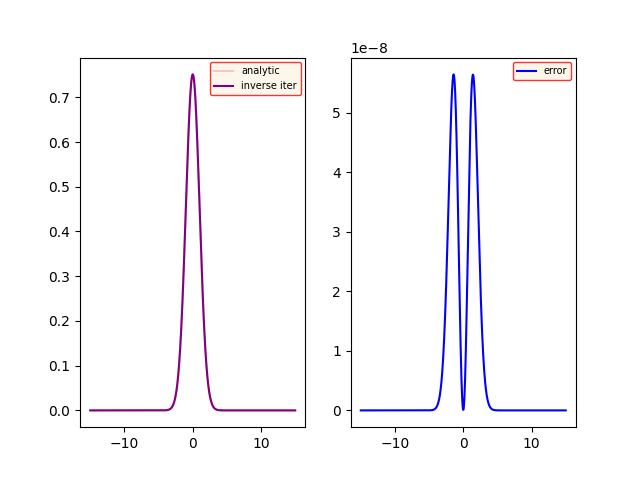
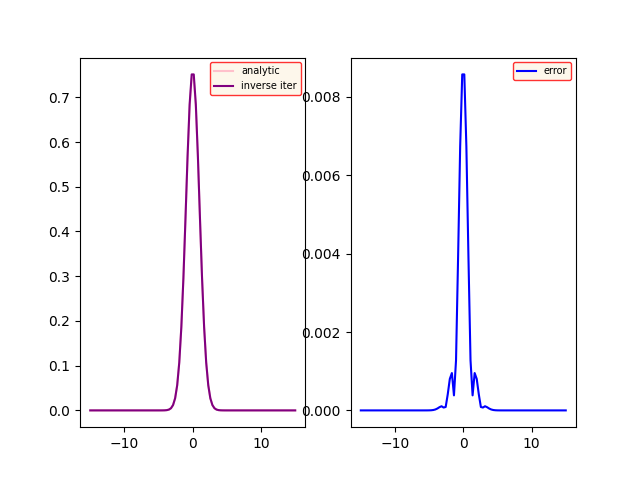
commit changes

diff --git a/task13/task13.py b/task13/task13.py
@@ -1,7 +1,11 @@
 import numpy as np
 import matplotlib.pyplot as plt
+from matplotlib import cm
 
 from typing import NamedTuple
+
+
+# нужно изменить на треугольник
 
 
 class Matrix(NamedTuple):
@@ -12,7 +16,23 @@ class Matrix(NamedTuple):
 
 
 def uxy0(x, y, L):
-    return (1 - (x/L)**2), (1 - (y/L)**2)
+    ux, uy = (1 - ((x-0.5 * L)/(0.5*L))**2), (1 - ((y - 1/3*L)/(L - x))**2)
+    if x == 0:
+        ux = 0
+    if y == 0:
+        uy = 0
+    if x == L:
+        ux, uy = 0, 0
+    return ux, uy
+
+    # if x - 0.1 <= 0.3 and y - 0.1 <= 0:
+    #     return 1, 1
+    # else:
+    #     return 0, 0
+
+
+def u0_x(x, L):
+    pass
 
 
 def _matrix(N, tau, h):
@@ -64,12 +84,12 @@ def _step_along_x(matrix, N, t_i, tau, ux, uy, h):
 def localy_1d_method(N, tau, h, t_steps, L):
     # matrix = _matrix(N, tau, h)
     ux, uy = np.zeros((N, t_steps)), np.zeros((N, t_steps))
-    x, y = np.linspace(-L, L, N), np.linspace(-L, L, N)
+    x, y = np.linspace(0, L, N), np.linspace(0, L, N)
     for i in range(N):
-        ux[i][0], uy[i][0] = uxy0(x=x[i], y=y[i], L=L)  #заполняем граничные условия при t=0
+        ux[i][0], uy[i][0] = uxy0(x=x[i], y=(L**2 - x[i]**2)**0.5, L=L)  #заполняем граничные условия при t=0
 
     temp_origin = np.zeros(t_steps)
-    temp_origin[0] = ux[int(N / 2)][0] * uy[int(N / 2)][0]
+    temp_origin[0] = ux[int(N / 3)][0] * uy[int(N / 2)][0]
 
     for t_i in range(t_steps-1):  # шаг по временной сетке
         matrix = _matrix(N, tau, h)
@@ -80,18 +100,39 @@ def localy_1d_method(N, tau, h, t_steps, L):
         if t_i % 2 == 1:  # делаем шаг по x
             ux, uy = _step_along_x(matrix=matrix, N=N, t_i=t_i, tau=tau, ux=ux, uy=uy, h=h)
 
-        temp_origin[t_i + 1] = ux[int(N / 2), t_i + 1] * uy[int(N / 2), t_i + 1]
+        temp_origin[t_i + 1] = ux[int(N / 3), t_i + 1] * uy[int(N / 2), t_i + 1]
 
-    return temp_origin
+    return temp_origin, ux, uy
+
+
+def make_triangle():
+    pass
 
 
 def run():
-    L, N, t = 1, 200, 1
+    L, N, t = 1, 201, 1
     t_steps = 101
-    x, t = np.linspace(-L, L, N), np.linspace(0, t, t_steps)
-    temps = localy_1d_method(N=N, tau=t[1] - t[0], h=x[1] - x[0], t_steps=t_steps, L=L)
+    x, t = np.linspace(0, L, N), np.linspace(0, t, t_steps)
+    temps, ux, uy = localy_1d_method(N=N, tau=t[1] - t[0], h=x[1] - x[0], t_steps=t_steps, L=L)
     plt.plot(t, temps, color='blue', label='temp in the origin')
-    plt.plot(t, np.exp(-6*t), color='red', label='exp(-6x)')
-    plt.plot(t, np.exp(-7*t), color='green', label='exp(-7x)')
+    plt.plot(t, np.exp(-5*t) - 0.8, color='red', label='exp(-6x)')
+    plt.plot(t, np.exp(-7*t) - 0.8, color='green', label='exp(-7x)')
     plt.legend(fontsize=7, ncol=1, facecolor='oldlace', edgecolor='r')
     plt.savefig('task13/temp_vs_time.png')
+    plt.close()
+
+    # fig = plt.figure(figsize=(5, 5))
+    # ax = fig.add_subplot(2, 1, 1, projection='3d')
+    # xval = np.linspace(0, L, N)
+    # yval = np.linspace(-L, L, N)
+    # xv, yv = np.meshgrid(xval, yval)
+    # z = np.zeros((N, N))
+    # for yi in range(N):  # u(x,y,0) = (1 − x^2/L^2)(1 − y^2/L^2).
+    #     for xi in range(N):
+    #         z[xi, yi] = ux[xi, 0] * uy[yi, 0]
+    # print(z[int(N / 2), int(N / 2)])
+    # print(temps[0])
+    # surf = ax.plot_surface(xv, yv, z, rstride=5, cstride=5)
+    # ax.set_zlim(0, 1)
+    # plt.savefig('task13/3d_temps')
+    # plt.close()

diff --git a/task11/task11.py b/task11/task11.py
@@ -91,7 +91,7 @@ def error_steps():
 
 
 def run():
-    N = 10**6  # интересно получается с четным и нечетным числом разбиений.
+    N = 10**2  # интересно получается с четным и нечетным числом разбиений.
     x = np.linspace(x0, xn, N)
     energy, psi = inverse_iteration(np.zeros(N) + 0.7, x, N)
     print(f'Calculated E0 = {energy}')
